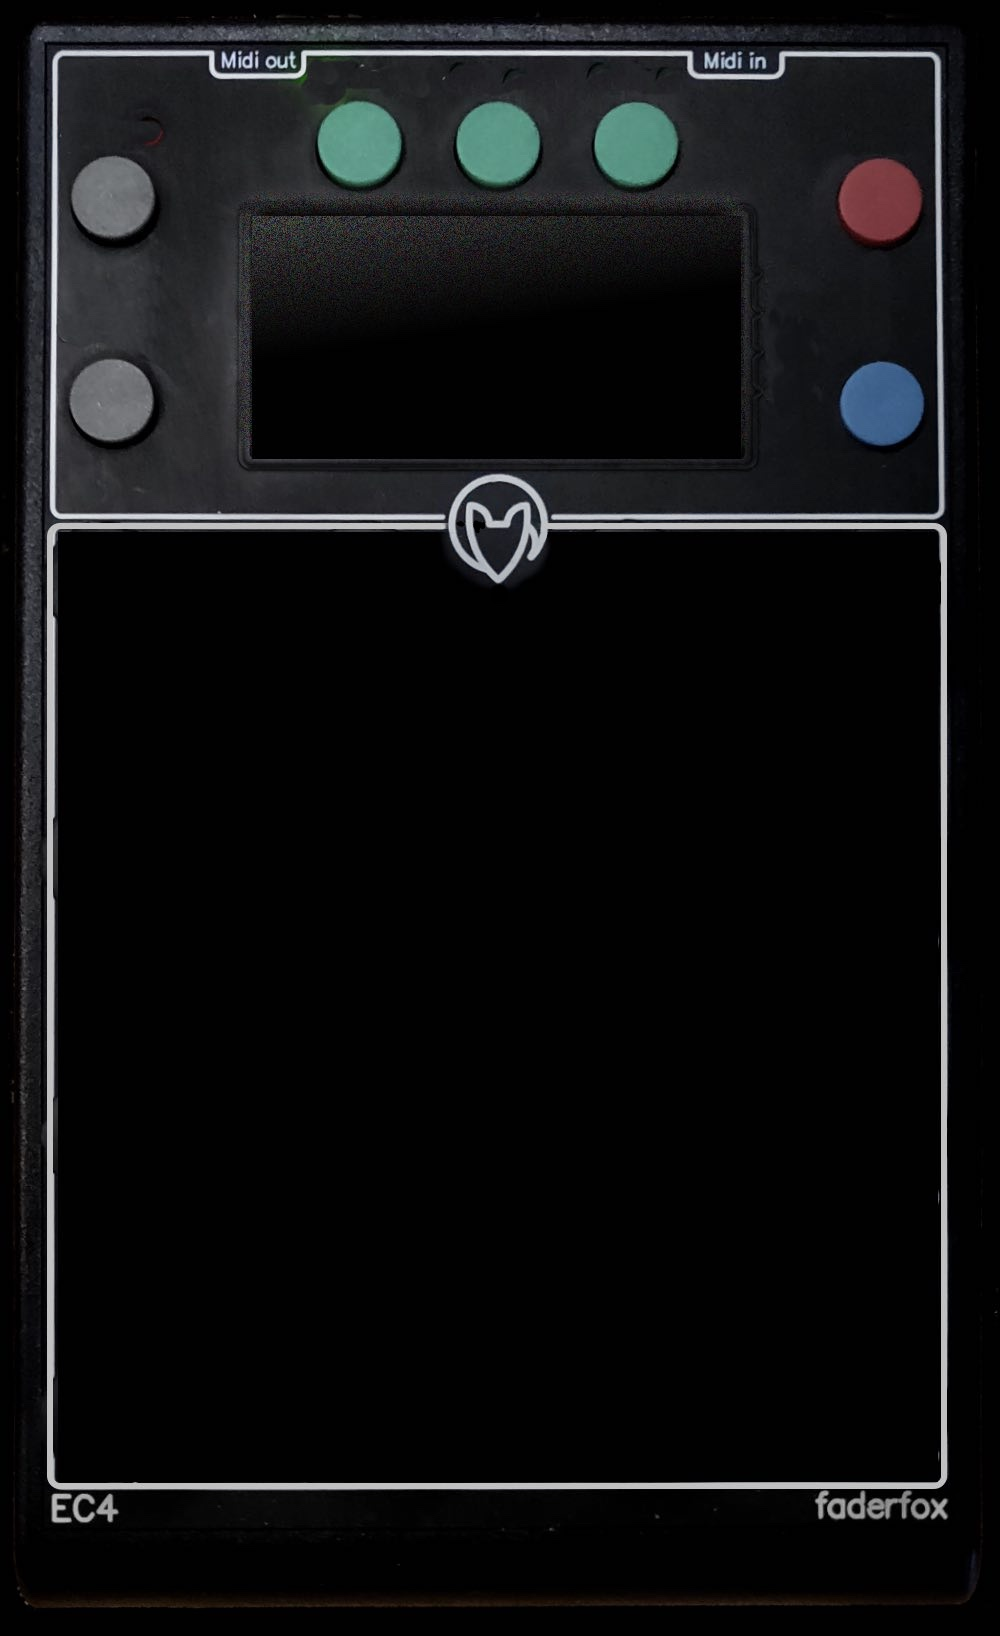
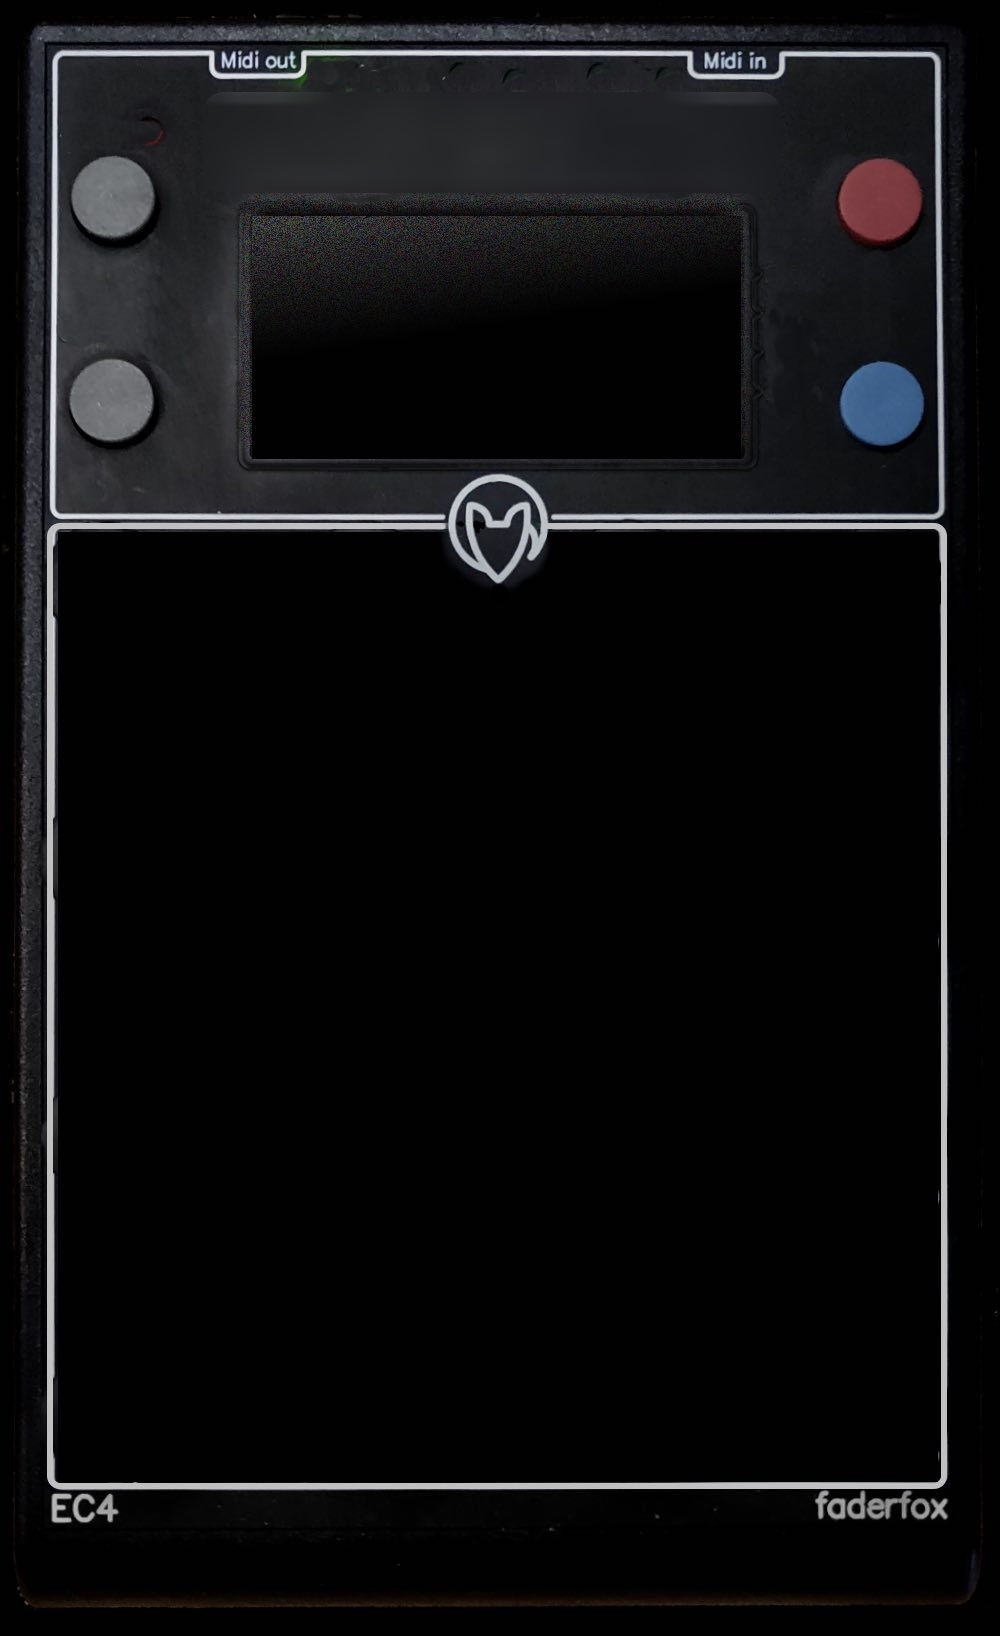
preparing interface for push settings

Changed region(s): [[0.434, 0.0623, 0.558, 0.1247], [0.589, 0.0623, 0.682, 0.1247], [0.31, 0.0623, 0.403, 0.1247]]

diff --git a/ec4/styles.css b/ec4/styles.css
@@ -546,3 +546,36 @@ main section {
 #merge button.default {
   font-weight: bold;
 }
+
+#modeselect {
+  display: flex;
+  position: absolute;
+  top: 75px;
+  left: 50%;
+  margin-left: -100px;
+  width: 200px;
+  /* height: 130px; */
+  box-shadow: 0 0 10px #222;
+  /* color: #feff5f; */
+  background: linear-gradient(8deg, #000, #222, #333);
+  /* line-height: 28px; */
+  box-sizing: border-box;
+  border: 2px solid #ddd;
+  border-radius: 6px;
+  padding: 5px 5px 5px 9px;
+  flex-direction: row;
+  justify-content: space-around;
+  align-items: center;
+}
+
+#modeselect span {
+  width: 100%;
+  text-align: center;
+}
+
+#modeselect .selected {
+  width: 100%;
+  text-align: center;
+  background-color: #feff5f;
+  color: black;
+}

diff --git a/ec4/index.html b/ec4/index.html
@@ -120,6 +120,7 @@
             >
           </div>
         </div>
+        <div id="modeselect"><span class="selected">Turn</span><span>Push</span></div>
         <div id="oled" class="watchparams typed matrixfont">
           <div class="centerline"></div>
           <span class="a">Ctrl:</span
